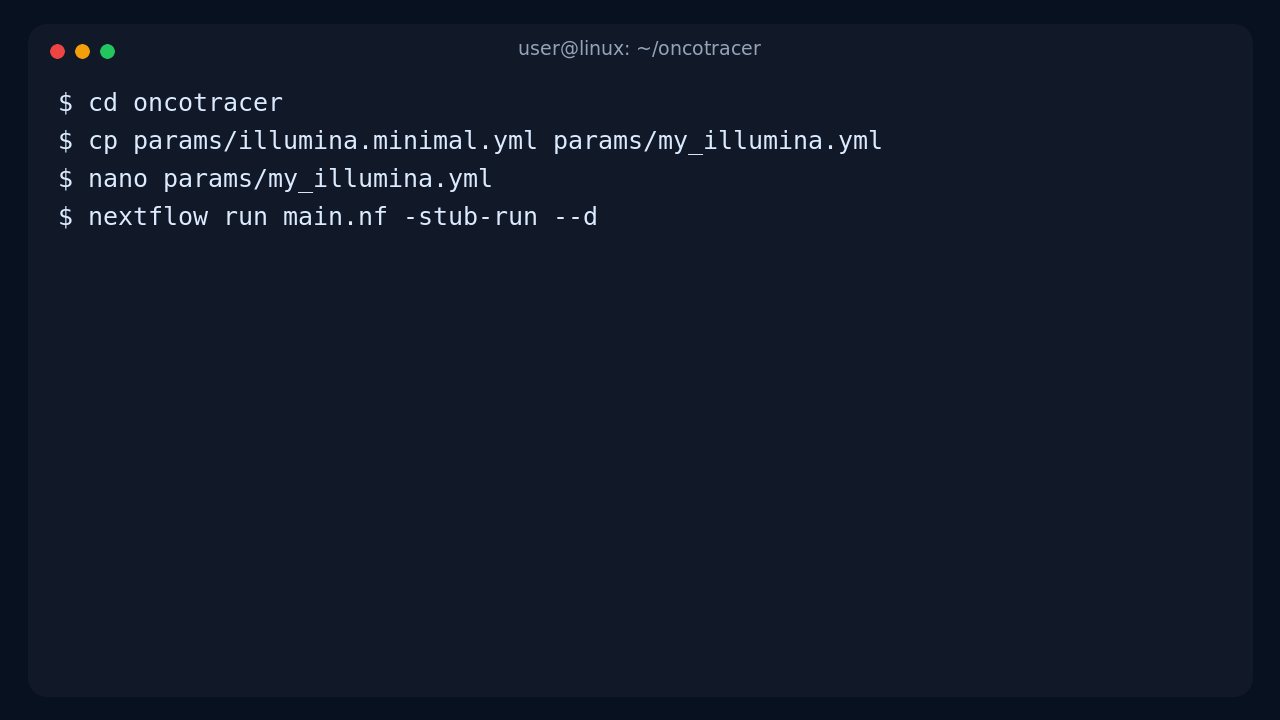
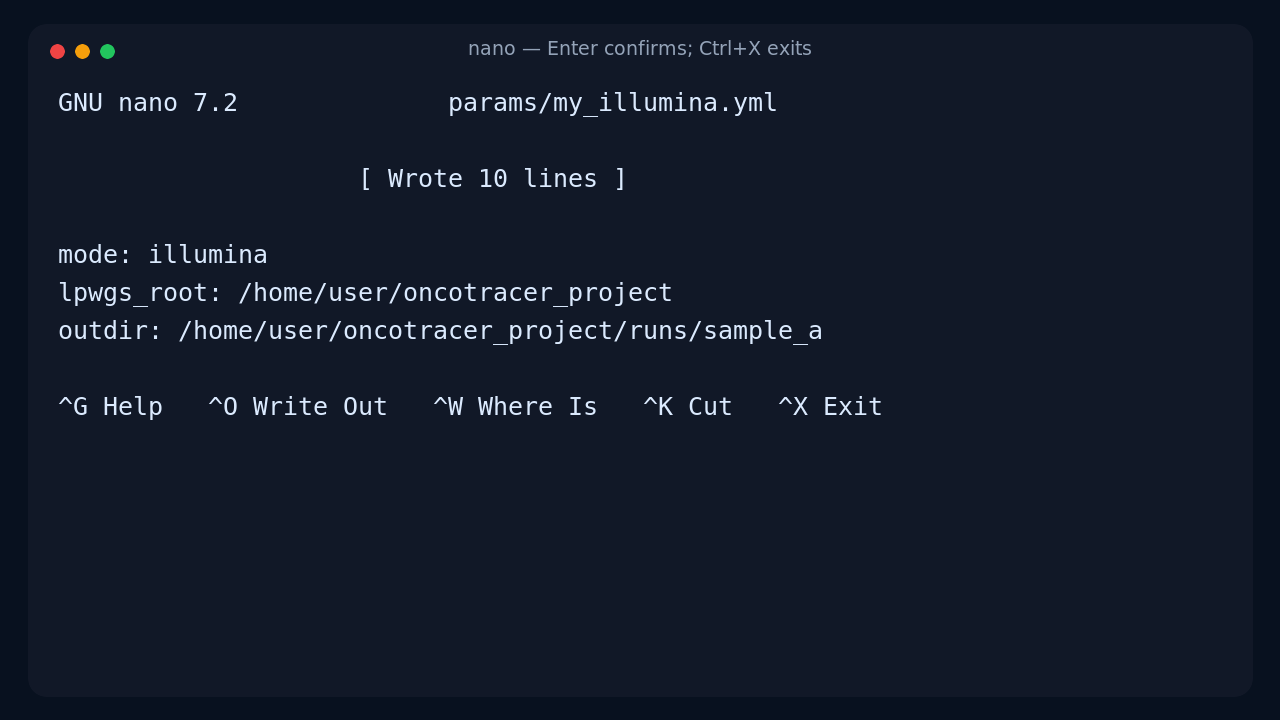
Clarify YAML tutorials and streamline documentation

diff --git a/docs/quick_start.md b/docs/quick_start.md
@@ -38,7 +38,7 @@ cat test/runs/illumina/06_workflow_summary/workflow_summary.txt                 
 
 The `--make_test` command is a **preparation step only**. It does not run CNA analysis. It downloads the public FASTQ files, validates their gzip integrity, creates the Illumina samplesheet, and writes `test/configs/illumina.quickstart.yml` plus `test/configs/ont.quickstart.yml`. The next two `nextflow` commands consume those generated YAML files.
 
-The box below is **not another command to paste into the terminal**. It is an annotated preview of the generated Illumina YAML so you can understand what the workflow will read. Your real file contains your clone path instead of `/absolute/path/...`:
+The generated Illumina YAML is located at the real path `<your-clone>/test/configs/illumina.quickstart.yml`. For example, if the clone is `/home/maria/oncotracer-illumina`, the file is `/home/maria/oncotracer-illumina/test/configs/illumina.quickstart.yml`. This is how that YAML file looks. The code box shows file contents, not a terminal command; `/absolute/path/...` represents the real path written by `--make_test`:
 
 ```yaml
 mode: illumina                                      # select the Illumina branch
@@ -80,7 +80,7 @@ nextflow run main.nf --docker -params-file test/configs/ont.quickstart.yml -resu
 cat test/runs/ont/06_workflow_summary/workflow_summary.txt                           # confirm the final output locations
 ```
 
-The `--make_test` command has already prepared both datasets and YAML files. The box below is **not a terminal command**. It is an annotated preview of `test/configs/ont.quickstart.yml`; the ONT run command above reads this file with `-params-file`. Your generated file contains the real absolute path of your clone:
+The generated ONT YAML is located at the real path `<your-clone>/test/configs/ont.quickstart.yml`. For example, if the clone is `/home/maria/oncotracer-ont`, the file is `/home/maria/oncotracer-ont/test/configs/ont.quickstart.yml`. This is how that YAML file looks. The code box shows file contents, not a terminal command; `--make_test` replaces `/absolute/path/...` with the actual absolute path of the clone. The ONT run above reads this file through `-params-file`:
 
 ```yaml
 mode: ont                                           # select the Oxford Nanopore branch
@@ -131,48 +131,81 @@ See [Models & Pathology](models_pathology.md) for interpretation limits and outp
 
 ## Use your own Illumina FASTQ files
 
+First create a private editable YAML and open it in `nano`:
+
 ```bash
 git clone https://github.com/cfarkas/oncotracer.git              # clone the repository
 cd oncotracer                                                    # enter the repository
-cp params/illumina.minimal.yml params/my_illumina.yml            # create an editable YAML without changing the versioned template
-realpath .                                                       # print the absolute repository path
-realpath /path/to/Sample_A_R1.fastq.gz                            # print the absolute read-1 FASTQ path
-realpath /path/to/Sample_A_R2.fastq.gz                            # print the absolute read-2 FASTQ path
-nano params/my_illumina.yml                                      # replace every example path with your absolute paths
-nextflow run main.nf -stub-run --docker -params-file params/my_illumina.yml # validate before computation
-nextflow run main.nf --docker -params-file params/my_illumina.yml -resume   # run from FASTQ to final reports
+cp params/illumina.minimal.yml params/my_illumina.yml            # copy the versioned template
+realpath .                                                       # print the absolute clone path
+realpath /path/to/Sample_A_R1.fastq.gz                            # print the absolute R1 path
+realpath /path/to/Sample_A_R2.fastq.gz                            # print the absolute R2 path
+nano params/my_illumina.yml                                      # replace every example path
 ```
+
+Save with `Ctrl+O`, press Enter, then exit with `Ctrl+X`. Validate and run.
+
+The YAML you edited is located at the real path `<your-clone>/params/my_illumina.yml`. For example, if the clone is `/home/maria/oncotracer`, the file is `/home/maria/oncotracer/params/my_illumina.yml`. This is how its contents look after the example paths have been replaced. This code box is YAML file content, not a terminal command:
 
 ```yaml
 mode: illumina                                      # select the Illumina branch
-lpwgs_root: /home/user/oncotracer_project           # common parent visible to Docker for input and output paths
-outdir: /home/user/oncotracer_project/runs/sample_a # main output directory
-illumina_samplesheet: /home/user/oncotracer_project/input/illumina_samplesheet.csv # CSV pointing to paired FASTQ files
-illumina_samurai_outdir: /home/user/oncotracer_project/runs/sample_a/01_samurai_illumina # upstream output directory
+lpwgs_root: /home/maria/oncotracer_project          # common parent visible to Docker/Singularity
+outdir: /home/maria/oncotracer_project/runs/sample_a # main result directory
+illumina_samplesheet: /home/maria/oncotracer_project/input/illumina_samplesheet.csv # paired FASTQ table
+illumina_samurai_outdir: /home/maria/oncotracer_project/runs/sample_a/01_samurai_illumina # qDNAseq/SAMURAI output
+illumina_analysis_type: solid_biopsy                # established analysis preset
+illumina_caller: qdnaseq                            # Illumina CNA caller
+illumina_binsize_kb: 100                            # coarse CNA bin size
+run_cna_classifier: false                           # optional classifier/pathology stage
+force: false                                        # protect existing real-project outputs
+```
+
+Now validate and run from the repository root:
+
+```bash
+nextflow run main.nf -stub-run --docker -params-file params/my_illumina.yml # validate YAML and workflow wiring
+nextflow run main.nf --docker -params-file params/my_illumina.yml -resume   # run from FASTQ to final reports
 ```
 
 ## Use your own ONT FASTQ files
 
+First create a private editable YAML and inspect the barcode layout:
+
 ```bash
 git clone https://github.com/cfarkas/oncotracer.git              # clone the repository
 cd oncotracer                                                    # enter the repository
-cp params/ont.minimal.yml params/my_ont.yml                      # create an editable YAML without changing the versioned template
-realpath .                                                       # print the absolute repository path
-realpath /path/to/fastq_pass                                     # print the absolute ONT FASTQ folder path
-find /path/to/fastq_pass -maxdepth 2 -type f | head              # confirm the barcode FASTQ layout
-nano params/my_ont.yml                                           # replace every example path, barcode, and sample name
-nextflow run main.nf -stub-run --docker -params-file params/my_ont.yml # validate before computation
-nextflow run main.nf --docker -params-file params/my_ont.yml -resume   # run from FASTQ to final reports
+cp params/ont.minimal.yml params/my_ont.yml                      # copy the versioned template
+realpath .                                                       # print the absolute clone path
+realpath /path/to/fastq_pass                                     # print the absolute ONT folder path
+find /path/to/fastq_pass -maxdepth 2 -type f | head              # confirm barcode FASTQ files exist
+nano params/my_ont.yml                                           # replace paths, barcodes, and sample names
 ```
+
+Save with `Ctrl+O`, press Enter, then exit with `Ctrl+X`. Validate and run.
+
+The YAML you edited is located at the real path `<your-clone>/params/my_ont.yml`. For example, if the clone is `/home/maria/oncotracer`, the file is `/home/maria/oncotracer/params/my_ont.yml`. This is how its contents look after the example paths have been replaced. This code box is YAML file content, not a terminal command:
 
 ```yaml
 mode: ont                                           # select the Oxford Nanopore branch
-lpwgs_root: /home/user/oncotracer_project           # common parent visible to Docker for input and output paths
-outdir: /home/user/oncotracer_project/runs/ont_a    # main output directory
-ont_folder: /home/user/oncotracer_project/input/fastq_pass # folder containing barcode FASTQ directories
+lpwgs_root: /home/maria/oncotracer_project          # common parent visible to Docker/Singularity
+outdir: /home/maria/oncotracer_project/runs/ont_a   # main result directory
+ont_folder: /home/maria/oncotracer_project/input/fastq_pass # barcode FASTQ folder
 ont_barcodes: barcode01,barcode02                   # barcode directories in input order
 ont_sample_names: Patient_A,Patient_B               # sample names in exactly the same order
-ont_samurai_outdir: /home/user/oncotracer_project/runs/ont_a/01_samurai_ont # upstream output directory
+ont_samurai_outdir: /home/maria/oncotracer_project/runs/ont_a/01_samurai_ont # ichorCNA/SAMURAI output
+ont_analysis_type: liquid_biopsy                    # established analysis preset
+ont_caller: ichorcna                                # ONT CNA caller
+ont_binsize_kb: 500                                 # coarse CNA bin size
+ont_min_age_minutes: 0                              # analyze completed FASTQ immediately
+run_cna_classifier: false                           # optional classifier/report stage
+force: false                                        # protect existing real-project outputs
+```
+
+Now validate and run from the repository root:
+
+```bash
+nextflow run main.nf -stub-run --docker -params-file params/my_ont.yml # validate YAML and workflow wiring
+nextflow run main.nf --docker -params-file params/my_ont.yml -resume   # run from FASTQ to final reports
 ```
 
 Use `--singularity` instead of `--docker` on supported HPC systems.

diff --git a/docs/running.md b/docs/running.md
@@ -19,6 +19,11 @@ Use exactly one runtime flag:
 ```bash
 cp params/illumina.example.yml params/my_illumina.yml
 nano params/my_illumina.yml
+```
+
+Save with `Ctrl+O`, press Enter, then exit with `Ctrl+X`. Validate and run:
+
+```bash
 nextflow run main.nf --docker -params-file params/my_illumina.yml -resume
 ```
 
@@ -27,6 +32,11 @@ nextflow run main.nf --docker -params-file params/my_illumina.yml -resume
 ```bash
 cp params/ont.example.yml params/my_ont.yml
 nano params/my_ont.yml
+```
+
+Save with `Ctrl+O`, press Enter, then exit with `Ctrl+X`. Validate and run:
+
+```bash
 nextflow run main.nf --docker -params-file params/my_ont.yml -resume
 ```
 
@@ -35,6 +45,11 @@ nextflow run main.nf --docker -params-file params/my_ont.yml -resume
 ```bash
 cp params/illumina.pathology.example.yml params/my_illumina_pathology.yml
 nano params/my_illumina_pathology.yml
+```
+
+Save with `Ctrl+O`, press Enter, then exit with `Ctrl+X`. Validate and run:
+
+```bash
 nextflow run main.nf --docker -params-file params/my_illumina_pathology.yml -resume
 ```
 

diff --git a/docs/inputs.md b/docs/inputs.md
@@ -31,12 +31,7 @@ mkdir -p project/input/fastq_pass          # create the ONT folder only when nee
 
 ## Editing text files with nano
 
-Open a file with `nano path/to/file`. Move with arrow keys, type normally, use Backspace/Delete to correct text, search with `Ctrl+W`, save with `Ctrl+O` followed by Enter, and exit with `Ctrl+X`.
-
-<video controls preload="metadata" poster="../assets/tutorial/edit_yaml_with_nano_poster.png" style="width:100%;max-width:960px">
-  <source src="../assets/tutorial/edit_yaml_with_nano.mp4" type="video/mp4">
-  Your browser cannot play the embedded video. <a href="../assets/tutorial/edit_yaml_with_nano.mp4">Download the MP4</a>.
-</video>
+Open a file with `nano path/to/file`. Move with arrow keys, type normally, use Backspace/Delete to correct text, and search with `Ctrl+W`. Save with `Ctrl+O`, press Enter, then exit with `Ctrl+X`. Validate and run.
 
 ## Illumina FASTQ samplesheet
 
@@ -45,6 +40,8 @@ Create `project/input/illumina.samplesheet.csv`:
 ```bash
 nano project/input/illumina.samplesheet.csv # open a new samplesheet in nano
 ```
+
+Save with `Ctrl+O`, press Enter, then exit with `Ctrl+X`. Validate and run.
 
 ```csv
 sample,fastq_1,fastq_2,status
@@ -104,6 +101,8 @@ cp examples/pathology/anonymized_pathology_example.csv project/input/pathology.c
 nano project/input/pathology.csv                                                   # inspect or replace rows in nano
 ```
 
+Save with `Ctrl+O`, press Enter, then exit with `Ctrl+X`. Validate and run.
+
 For real work, export only the minimum fields required from the pathology system. Do not add names, national identifiers, addresses, dates of birth, insurance data, or unnecessary narrative text.
 
 ### Step 2: use matching sample IDs
@@ -132,6 +131,8 @@ Copy the pathology-enabled template:
 cp params/illumina.pathology.example.yml params/my_illumina_pathology.yml # make an editable run YAML
 nano params/my_illumina_pathology.yml                                    # replace example paths and column names
 ```
+
+Save with `Ctrl+O`, press Enter, then exit with `Ctrl+X`. Validate and run.
 
 ```yaml
 run_cna_classifier: true

diff --git a/README.md b/README.md
@@ -26,12 +26,6 @@ bash run_test.sh --docker                            # download public FASTQ fil
 
 Use `--singularity` or `--conda` instead of `--docker` when appropriate. See the [complete documentation](https://cfarkas.github.io/oncotracer/) for requirements and explanations.
 
-## YAML editing video
-
-[![Watch a human-paced nano YAML editing walkthrough](docs/assets/tutorial/edit_yaml_with_nano_poster.png)](docs/assets/tutorial/edit_yaml_with_nano.mp4)
-
-The 26-second MP4 shows paced terminal typing, copying a template, editing paths in `nano`, saving/exiting, and running stub validation.
-
 ## Install and prepare public tests
 
 ```bash

diff --git a/docs/configuration/illumina.md b/docs/configuration/illumina.md
@@ -30,9 +30,11 @@ realpath .                                           # print the absolute clone 
 nano params/my_illumina.yml                          # edit the copied YAML
 ```
 
+Save with `Ctrl+O`, press Enter, then exit with `Ctrl+X`. Validate and run.
+
 ### Video: a human-style nano editing session
 
-The video shows paced typing, opening `nano`, replacing paths, saving with `Ctrl+O`, exiting with `Ctrl+X`, and validating the YAML.
+This real example pauses on each edit so you can follow it. It shows a user opening `nano`, replacing absolute paths, saving with `Ctrl+O`, exiting with `Ctrl+X`, and starting the complete Illumina run with the edited YAML.
 
 <video controls preload="metadata" poster="../../assets/tutorial/edit_yaml_with_nano_poster.png" style="width:100%;max-width:960px">
   <source src="../../assets/tutorial/edit_yaml_with_nano.mp4" type="video/mp4">
@@ -71,7 +73,7 @@ sample,fastq_1,fastq_2,status
 Sample_A,/home/user/oncotracer/project/input/Sample_A_R1.fastq.gz,/home/user/oncotracer/project/input/Sample_A_R2.fastq.gz,tumor
 ```
 
-Save with `Ctrl+O`, Enter, then `Ctrl+X`. Check every file before running:
+Save with `Ctrl+O`, press Enter, then exit with `Ctrl+X`. Validate and run. First check every file:
 
 ```bash
 realpath project/input/Sample_A_R1.fastq.gz          # confirm the R1 absolute path

diff --git a/docs/configuration/ont.md b/docs/configuration/ont.md
@@ -33,7 +33,7 @@ realpath project/input/fastq_pass                   # obtain the absolute ONT fo
 nano params/my_ont.yml                              # edit the copied YAML
 ```
 
-In `nano`, use arrow keys to move. Replace the example paths and barcode/sample lists. Save with `Ctrl+O`, Enter, and exit with `Ctrl+X`. The [Illumina YAML page](illumina.md#video-a-human-style-nano-editing-session) contains a video of the same nano workflow.
+In `nano`, use arrow keys to move and replace the example paths and barcode/sample lists. Save with `Ctrl+O`, press Enter, then exit with `Ctrl+X`. Validate and run.
 
 ## What the YAML means
 

diff --git a/docs/configuration/pathology.md b/docs/configuration/pathology.md
@@ -106,7 +106,7 @@ pathology_biomed_local_files_only: false
 force: false
 ```
 
-In `nano`: use arrow keys to move, Backspace/Delete to remove example text, and type the new value after each colon. Press `Ctrl+O`, Enter, then `Ctrl+X`.
+In `nano`, use arrow keys to move, Backspace/Delete to remove example text, and type the new value after each colon. Save with `Ctrl+O`, press Enter, then exit with `Ctrl+X`. Validate and run.
 
 ### 5. Check identifiers before running
 

diff --git a/docs/configuration/yaml_basics.md b/docs/configuration/yaml_basics.md
@@ -12,6 +12,8 @@ mkdir -p /home/user/oncotracer_project/runs                # create an output ar
 nano params/my_illumina.yml                                # edit the copied YAML
 ```
 
+Save with `Ctrl+O`, press Enter, then exit with `Ctrl+X`. Validate and run.
+
 ## Path rules
 
 - Use absolute Linux paths beginning with `/`.